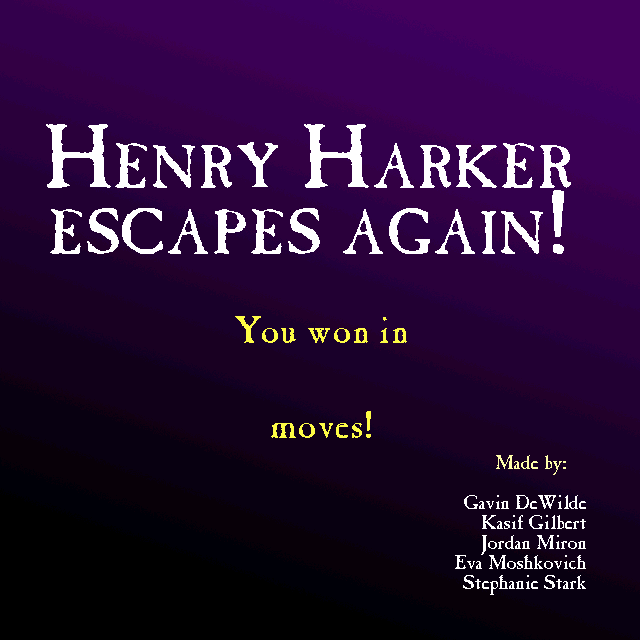
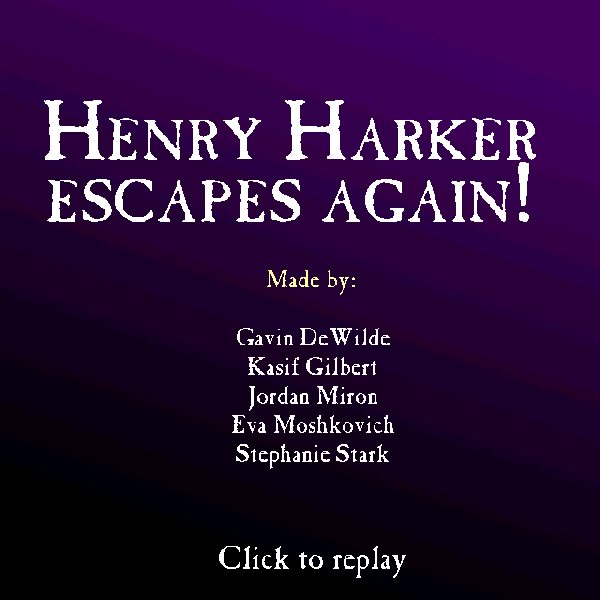
Fixed start/end/restart game

diff --git a/js/rotator.js b/js/rotator.js
@@ -6,7 +6,7 @@ window.onload = function() {
   var json = { "ps1": "img/Ps1.png", "ps2": "img/Ps2.png", "ps3": "img/Ps3.png", "ps4": "img/Ps4.png", "ps5": "img/Ps1.png", "ps6": "img/Ps2.png", "ps7": "img/Ps3.png", "ps8": "img/Ps4.png", "ps9": "img/Ps1.png", "ps10": "img/Ps2.png", "ps11": "img/Ps3.png", "ps12": "img/Ps4.png", "ps13": "img/Ps1.png", "ps14": "img/Ps2.png", "ps15": "img/Ps3.png", "ps16": "img/Ps4.png", "ps17": "img/Ps1.png", "ps18": "img/Ps2.png", "ps19": "img/Ps3.png", "ps20": "img/Ps3.png", "ps21": "img/Ps1.png", "ps22": "img/Ps2.png", "ps23": "img/Ps3.png", "ps24": "img/Ps4.png", "ps25": "img/Ps1.png", "ps26": "img/Ps2.png", "ps27": "img/Ps3.png", "ps28": "img/Ps4.png", "ps29": "img/Ps1.png", "ps30": "img/Ps2.png", "ps31": "img/Ps3.png", "ps32": "img/Ps4.png", "ps33": "img/Ps1.png", "ps34": "img/Ps2.png", "ps35": "img/Ps3.png", "ps36": "img/Ps4.png" };
   var tiles = new Array(6);
   var henry;
-  var henryIdle;
+  var startScreen;
   for (var i = 0; i<6; i++){
   	tiles[i] = new Array(6);
   }
@@ -15,24 +15,56 @@ window.onload = function() {
   
   function preload () {
     loadImages(function() {
+      game.load.image('bg', 'img/background.png');
       game.load.image('player', 'img/Phero.png');
       game.load.spritesheet('henrywalk', 'img/henrywalk.png', 40, 40, 18);
+      game.load.image('startScreen', 'img/introscreen.png');
+      game.load.image('endScreen', 'img/endscreen.png');
       keys = game.input.keyboard.createCursorKeys();
       jump = game.input.keyboard.addKey(Phaser.Keyboard.SPACEBAR);
     });
   }
 
   function create () {
+    game.add.tileSprite(0, 0, 600, 600, 'bg');
     createImages(function() {
-      player = game.add.sprite(50, 50, 'henrywalk');
+      startScreen = game.add.tileSprite(0, 0, 600, 600, 'startScreen');
+      endScreen = game.add.tileSprite(0, 0, 600, 600, 'endScreen');
+      endScreen.visible = false;
+      player = game.add.sprite(70, 70, 'henrywalk');
       player.anchor.setTo(.5, .5);
       player.body.setSize(100, 100, 0, 0);
       player.animations.add('walk');
+      player.visible = false;
+      game.input.onDown.add(startGame, this);
     });
+  }
+  
+  function startGame() {
+  	startScreen.visible = false;
+  	player.visible = true;
+  }
+  
+  function endGame() {
+    player.kill();
+    endScreen.visible = true;
+  }
+  
+  function restartGame() {
+    create();
+  	startGame();
   }
 
   function update() {
   	var d = new Date();
+  	
+  	var x = Math.floor((player.x+70)/100);
+  	var y = Math.floor((player.y+70)/100);
+  	if (x === 5 && y === 4){
+  	  endGame();
+  	  
+  	  game.input.onDown.add(restartGame, this);
+  	}
 	if (jump.isDown && canMove){
 		canMove = false;
 	  	rotate(player.x, player.y);
@@ -80,7 +112,7 @@ window.onload = function() {
     var i =0;
     var j=0;
     $.each(json, function(key, value) {
-      var temp = game.add.sprite(x+50, y+50, key);
+      var temp = game.add.sprite(x+70, y+70, key);
       temp.anchor.setTo(0.5,0.5);
       var obj;
       if(value.indexOf("1") !== -1){
